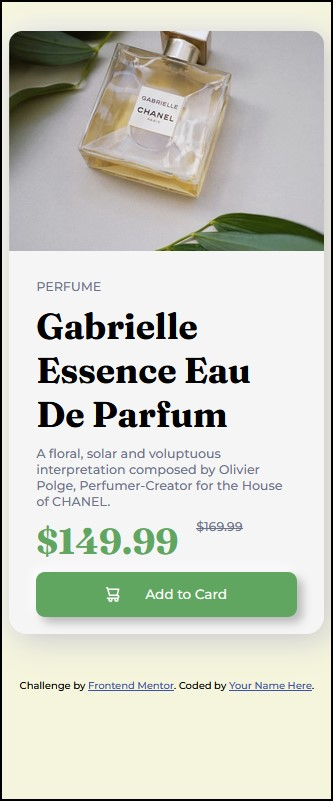
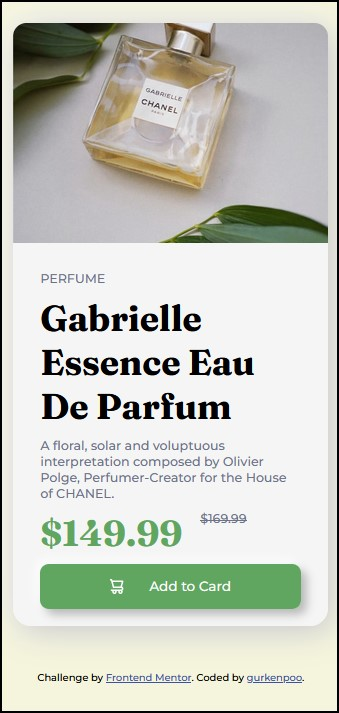
replace screenshots

diff --git a/root/index.html b/root/index.html
@@ -35,7 +35,7 @@
   </main>
   <div class="attribution">
     Challenge by <a href="https://www.frontendmentor.io?ref=challenge" target="_blank">Frontend Mentor</a>. 
-    Coded by <a href="#">Your Name Here</a>.
+    Coded by <a href="https://github.com/gurkenpoo">gurkenpoo</a>.
   </div>
 </body>
 </html>
